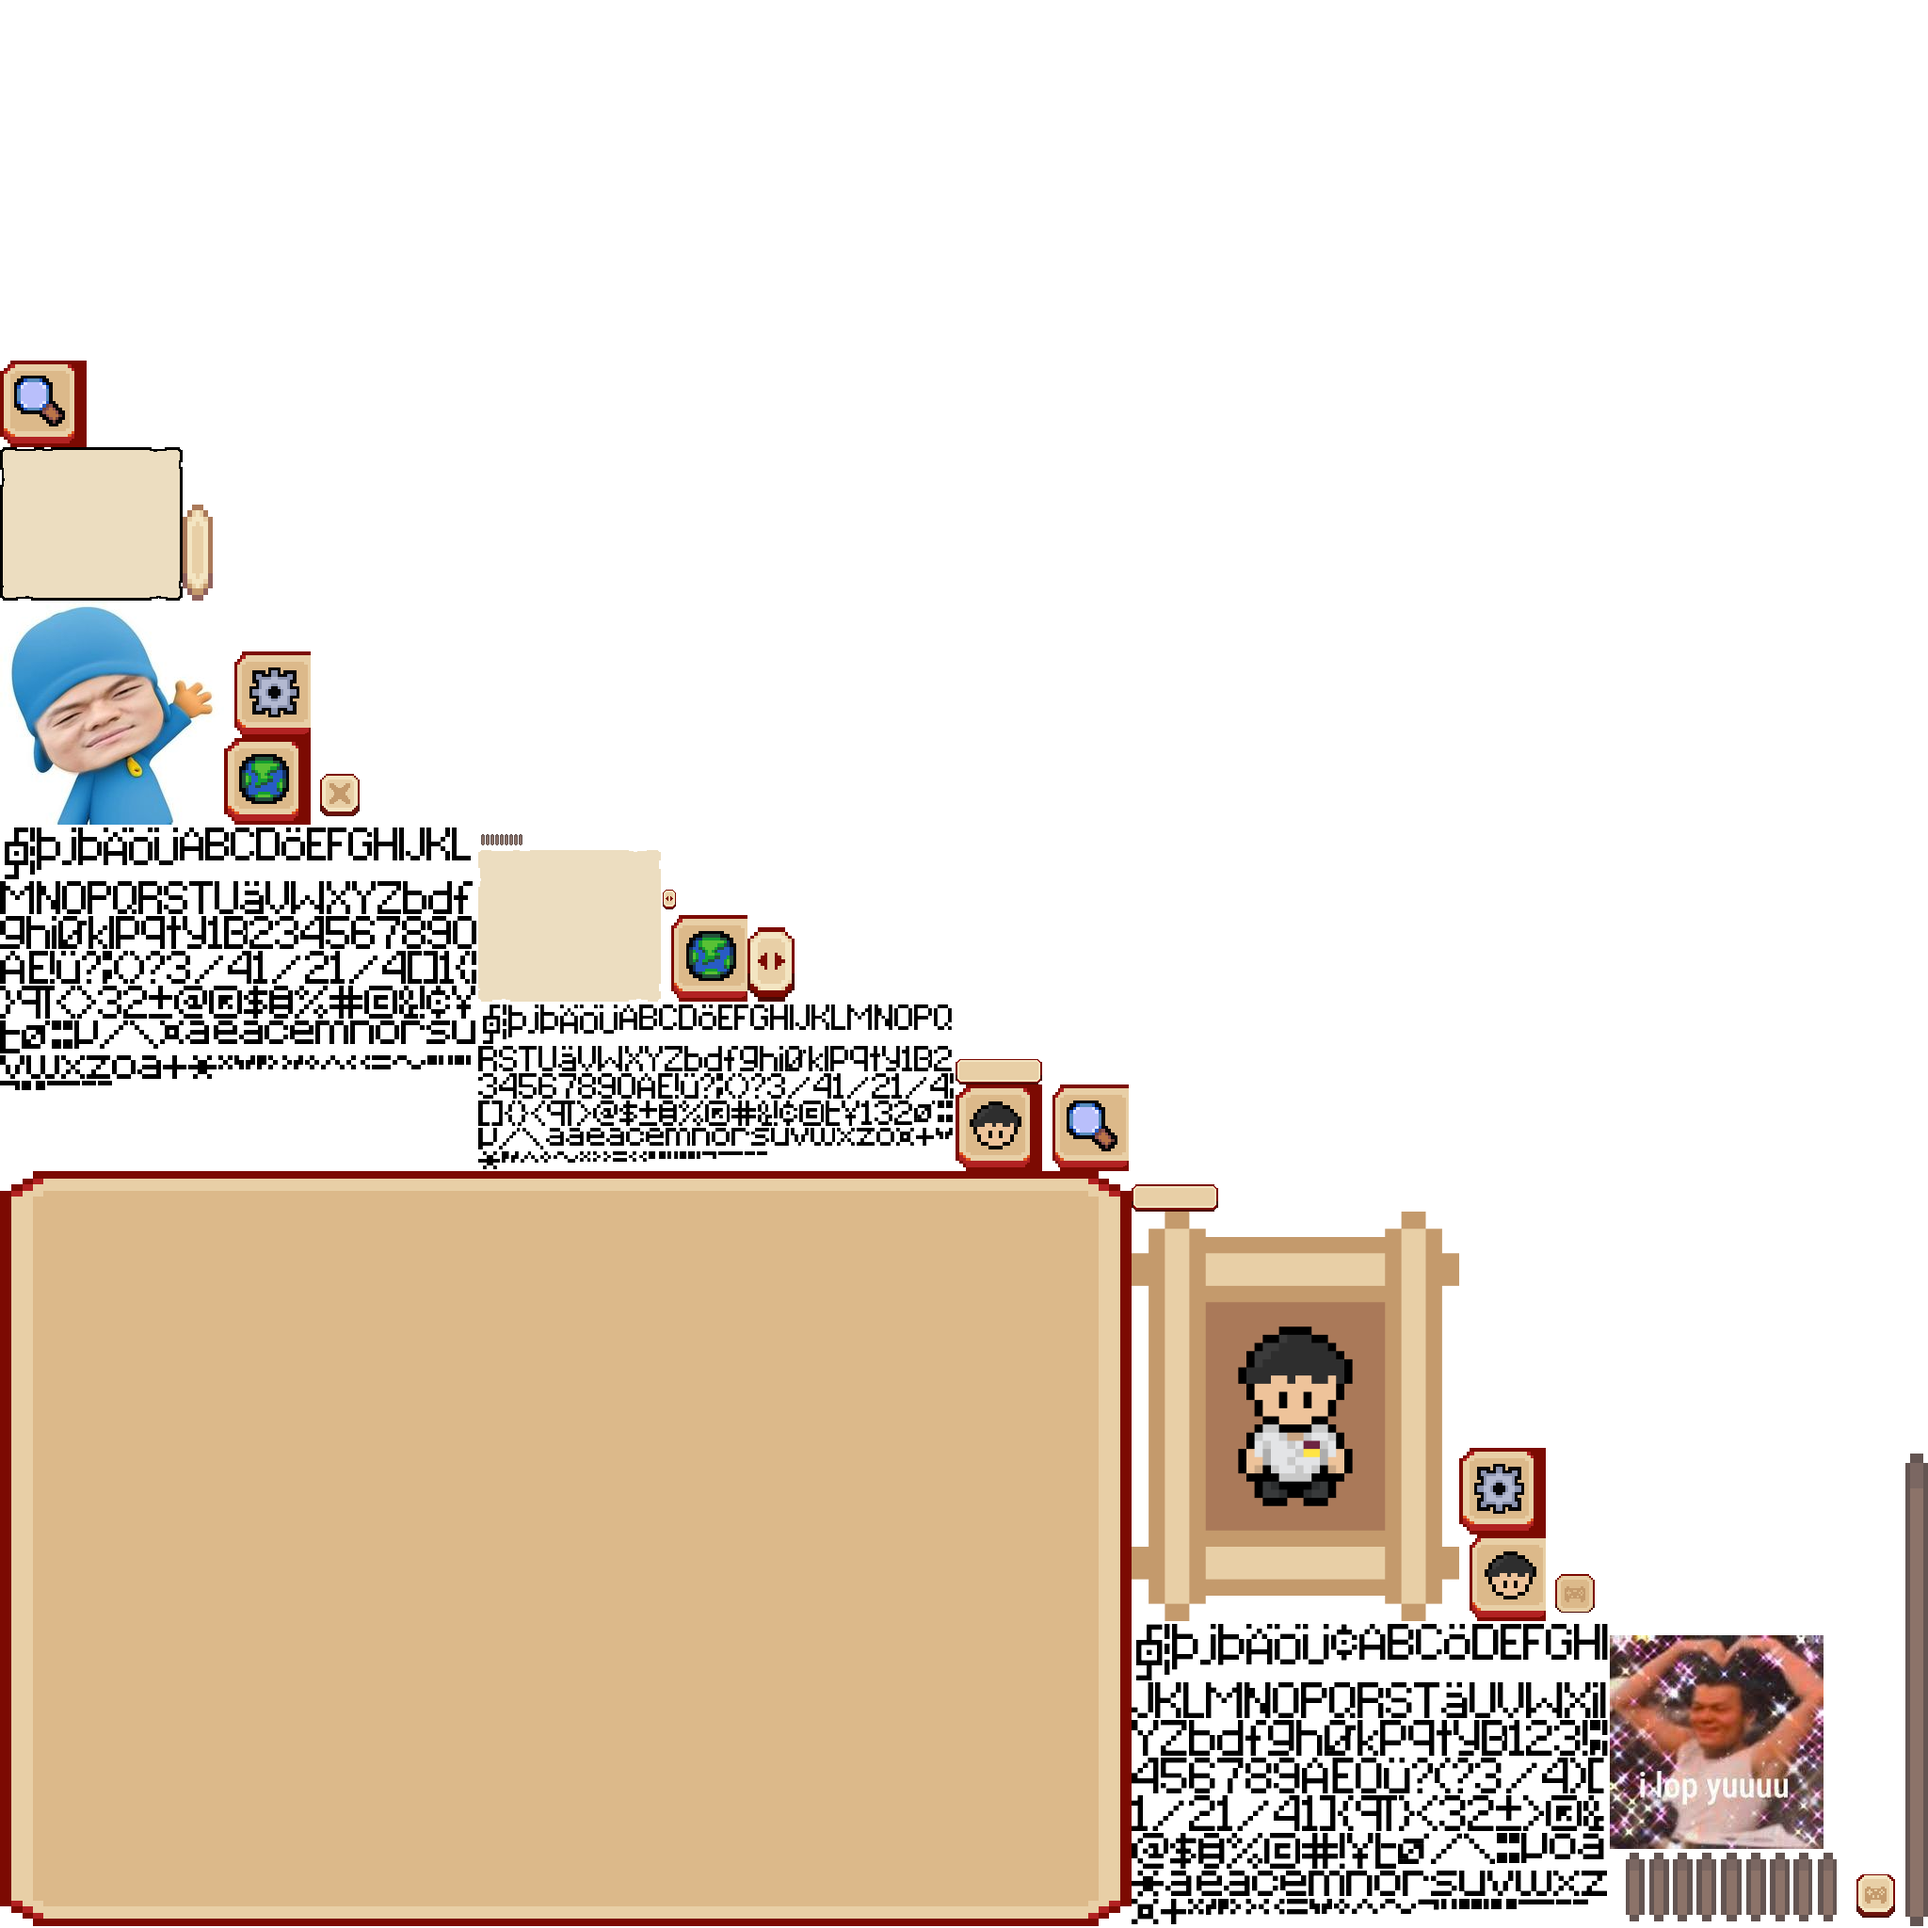
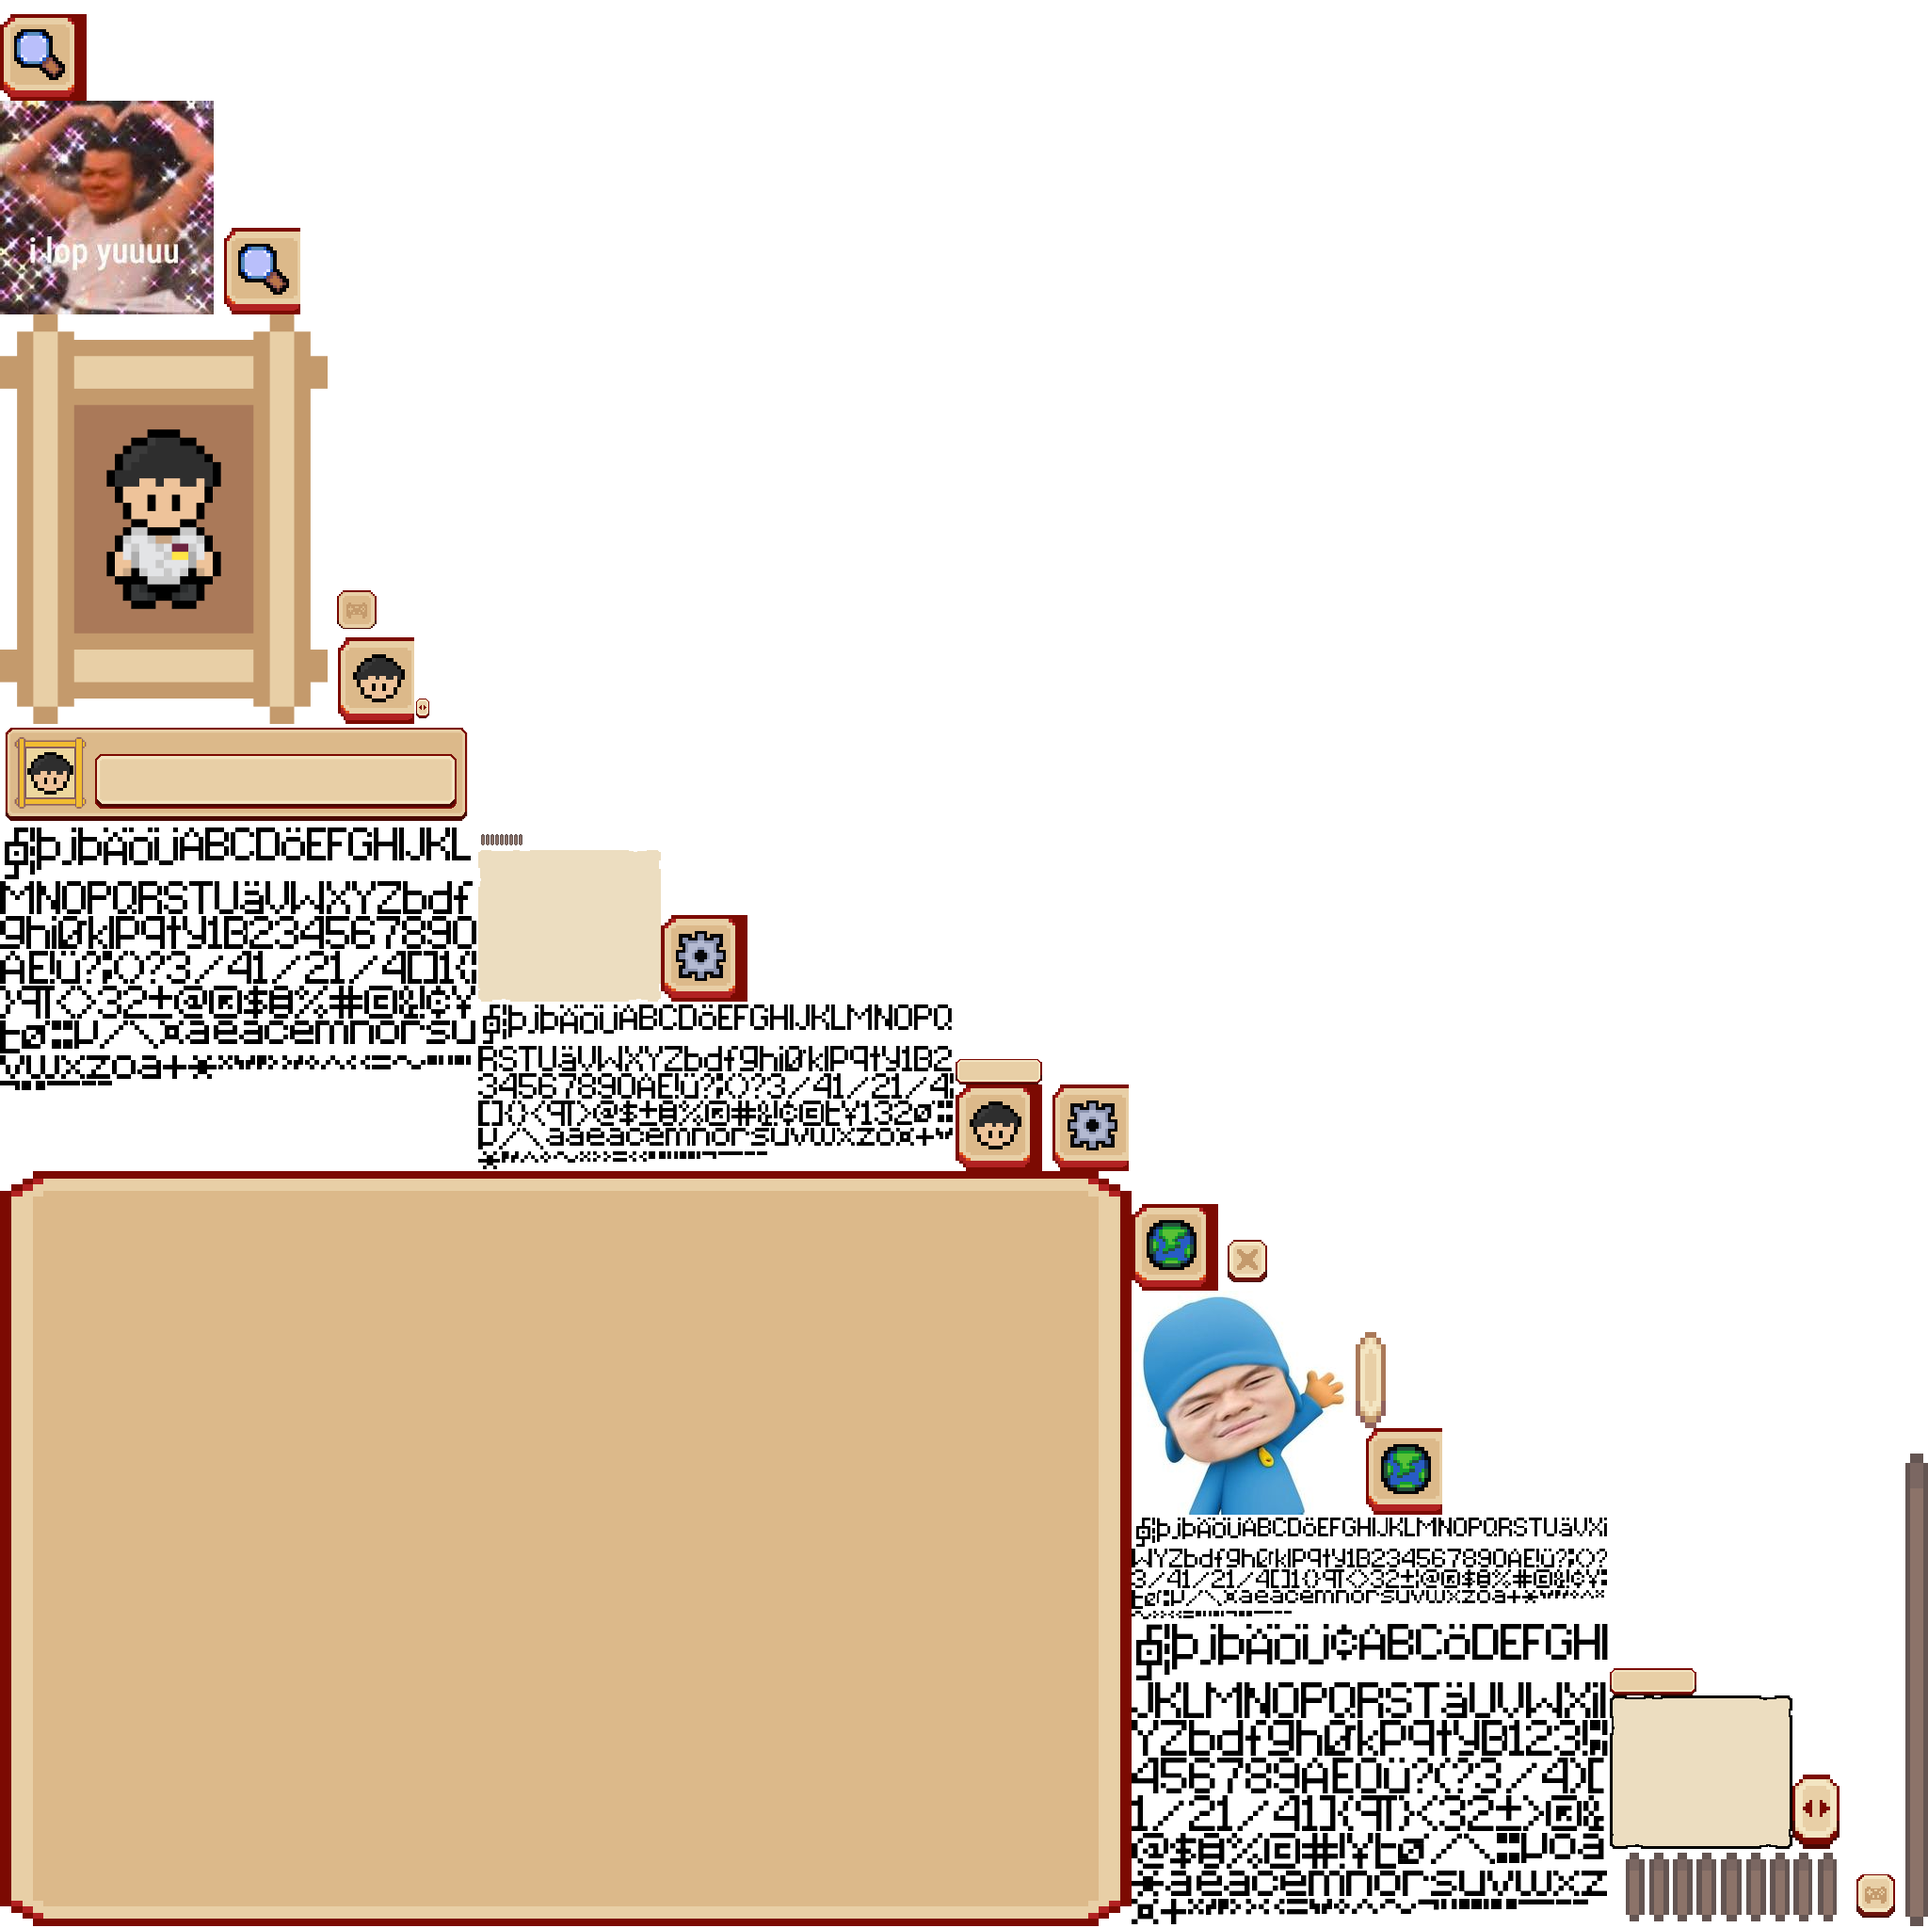
added user interface

Changed region(s): [[0.0, 0.0, 0.25, 0.4375], [0.5312, 0.5625, 0.9688, 0.9688], [0.3438, 0.4688, 0.4062, 0.5312]]

diff --git a/core/src/main/java/io/mygame/ui/MainGameUI.java b/core/src/main/java/io/mygame/ui/MainGameUI.java
@@ -1,0 +1,142 @@
+package io.mygame.ui;
+
+import com.badlogic.gdx.Gdx;
+import com.badlogic.gdx.scenes.scene2d.Actor;
+import com.badlogic.gdx.scenes.scene2d.Stage;
+import com.badlogic.gdx.scenes.scene2d.Touchable;
+import com.badlogic.gdx.scenes.scene2d.ui.*;
+import com.badlogic.gdx.scenes.scene2d.utils.ChangeListener;
+import com.badlogic.gdx.utils.Align;
+import com.badlogic.gdx.utils.Scaling;
+import com.badlogic.gdx.utils.viewport.ScreenViewport;
+
+public class MainGameUI extends UI {
+    private CheckBox statsCb;
+    private CheckBox mapCb;
+    private CheckBox expCb;
+    private CheckBox settingCb;
+    private Label labelName;
+
+    public MainGameUI() {
+        super(new ScreenViewport());
+        playerHUD();
+    }
+
+    private void playerHUD() {
+        stage = new Stage(new ScreenViewport());
+        skin = new Skin(Gdx.files.internal("skins/uiSkins/ui.json"));
+        Gdx.input.setInputProcessor(stage);
+
+        Table table = new Table();
+        table.top().left();
+        table.padTop(15f);
+        table.padLeft(15f);
+        table.setFillParent(true);
+
+        Stack stack = new Stack();
+
+        Image image = new Image(skin, "player_hud");
+        stack.addActor(image);
+
+        Table table1 = new Table();
+        stack.addActor(table1);
+
+        Container container = new Container();
+        container.align(Align.left);
+        container.padLeft(120.0f);
+        container.padTop(12.0f);
+
+        labelName = new Label(gameManager.getPlayerName() + " (CIT-U)", skin, "header3");
+        container.setActor(labelName);
+        stack.addActor(container);
+        table.add(stack);
+
+        table.row();
+        Button button = new Button(skin, "open_menu_btn");
+        table.add(button).padLeft(10.0f).padTop(19.0f).align(Align.left).minSize(80.0f);
+        stage.addActor(table);
+
+        button.addListener(new ChangeListener() {
+            @Override
+            public void changed(ChangeEvent changeEvent, Actor actor) {
+                emptyMenuUI();
+            }
+        });
+    }
+
+    private void emptyMenuUI() {
+        Table table = new Table();
+        table.setFillParent(true);
+
+        Stack stack = new Stack();
+
+        Container container = new Container();
+        container.padLeft(78.0f);
+
+        Stack stack1 = new Stack();
+
+        Image image = new Image(skin, "menu_bg");
+        stack1.addActor(image);
+
+        Table table1 = new Table();
+        stack1.addActor(table1);
+        container.setActor(stack1);
+        stack.addActor(container);
+
+        table1 = new Table();
+        table1.padTop(80.0f);
+        table1.align(Align.topLeft);
+
+        CheckBox checkBox = new CheckBox(null, skin, "stats_cb");
+        table1.add(checkBox);
+
+        table1.row();
+        checkBox = new CheckBox(null, skin, "map_cb");
+        table1.add(checkBox);
+
+        table1.row();
+        checkBox = new CheckBox(null, skin, "exp_cb");
+        table1.add(checkBox);
+
+        table1.row();
+        checkBox = new CheckBox(null, skin, "settings_cb");
+        table1.add(checkBox);
+        stack.addActor(table1);
+        table.add(stack);
+        stage.addActor(table);
+
+
+//        statsCb.addListener(new ChangeListener() {
+//            @Override
+//            public void changed(ChangeEvent changeEvent, Actor actor) {
+//
+//            }
+//        });
+    }
+
+    private void statsTable() {
+
+    }
+
+    private void mapTable() {
+
+    }
+
+    private void explorationTable() {
+
+    }
+
+    private void settingsTable() {
+
+    }
+
+    @Override
+    public void render() {
+        super.render();
+    }
+
+    @Override
+    public void dispose() {
+        super.dispose();
+    }
+}

diff --git a/core/src/main/java/io/mygame/screens/GameScreen.java b/core/src/main/java/io/mygame/screens/GameScreen.java
@@ -16,9 +16,8 @@ import com.badlogic.gdx.maps.tiled.TmxMapLoader;
 import com.badlogic.gdx.utils.viewport.Viewport;
 
 import io.mygame.common.CollisionHandler;
-import io.mygame.ui.InventoryMenu;
 import io.mygame.entities.Player;
-import io.mygame.ui.PlayerHUD;
+import io.mygame.ui.MainGameUI;
 
 import java.util.ArrayList;
 import java.util.List;
@@ -34,9 +33,8 @@ public class GameScreen extends WildCatScreen {
     /************ COLLISION HANDLER ************/
     private CollisionHandler collisionHandler;
 
-    /************ USER INTERFACES ************/
-    private PlayerHUD playerHUD;
-    private InventoryMenu inventoryMenu;
+    /************ USER INTERFACES ***********/
+    private MainGameUI mainGameUI;
 
     /************ SCREEN VIEWPORT SIZE ************/
     private Viewport viewport;
@@ -71,8 +69,7 @@ public class GameScreen extends WildCatScreen {
         batch = new SpriteBatch();
         player = new Player();
 
-        playerHUD = new PlayerHUD();
-
+        mainGameUI = new MainGameUI();
 
         MapLayers mapLayers = map.getLayers();
         background = new ArrayList<>();
@@ -124,7 +121,7 @@ public class GameScreen extends WildCatScreen {
         input();
         draw();
         logic();
-        playerHUD.render();
+        mainGameUI.render();
     }
 
     /**
@@ -208,7 +205,7 @@ public class GameScreen extends WildCatScreen {
     @Override
     public void resize(int width, int height) {
         viewport.update(width, height);
-        playerHUD.resize(width, height);
+        mainGameUI.resize(width, height);
     }
 
     /**
@@ -224,7 +221,7 @@ public class GameScreen extends WildCatScreen {
      */
     @Override
     public void dispose() {
-        playerHUD.dispose();
+        mainGameUI.dispose();
         batch.dispose();
         map.dispose();
         renderer.dispose();

diff --git a/core/src/main/java/io/mygame/ui/MainMenuUI.java b/core/src/main/java/io/mygame/ui/MainMenuUI.java
@@ -1,0 +1,9 @@
+package io.mygame.ui;
+
+import com.badlogic.gdx.graphics.Texture;
+import com.badlogic.gdx.graphics.g2d.SpriteBatch;
+import com.badlogic.gdx.scenes.scene2d.Stage;
+import com.badlogic.gdx.scenes.scene2d.ui.Skin;
+
+public class MainMenuUI {
+}
